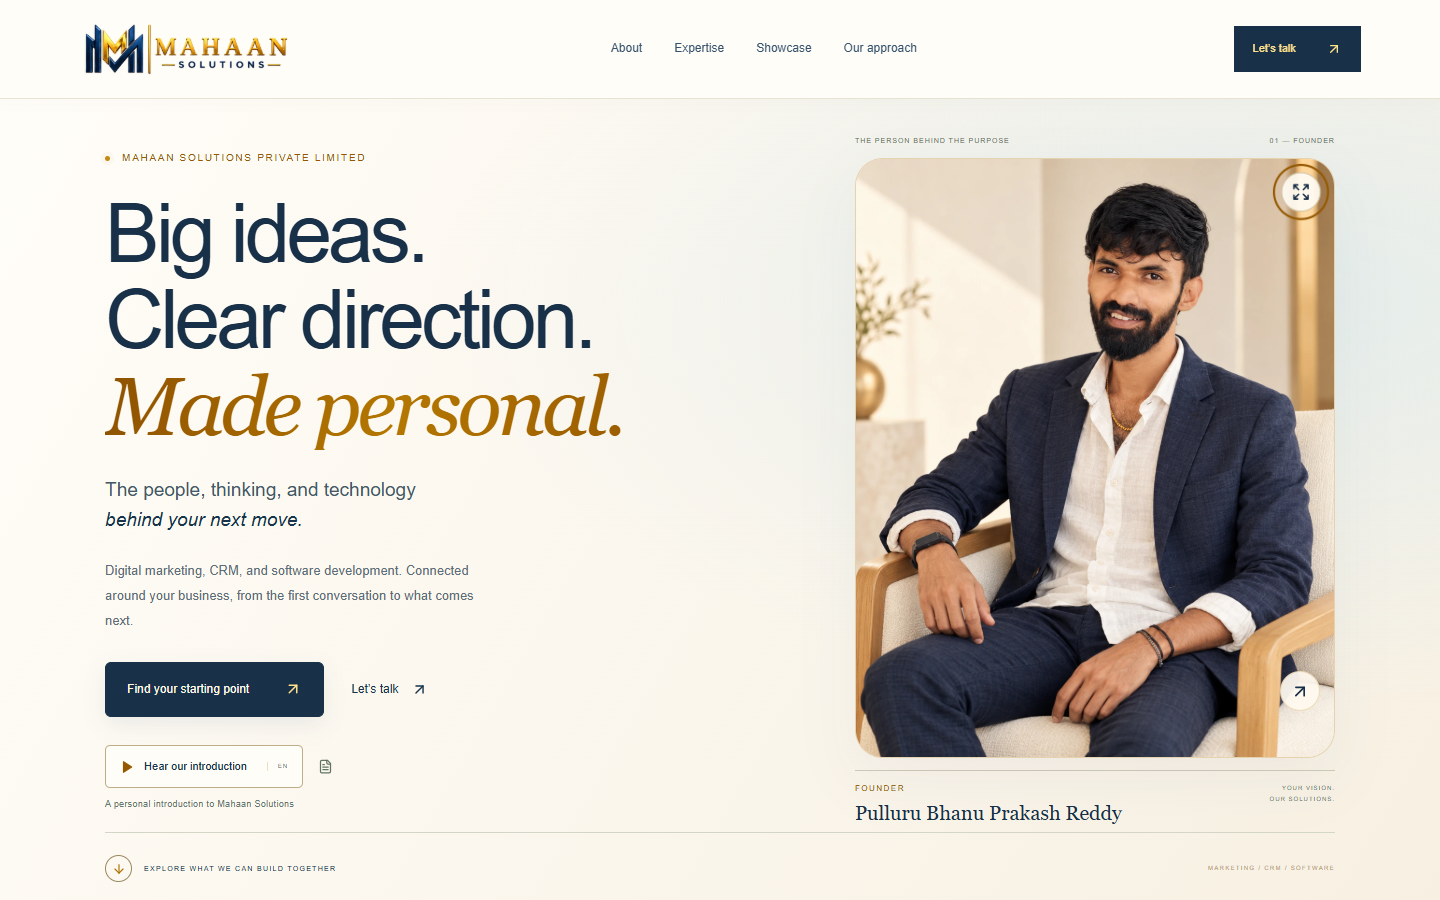
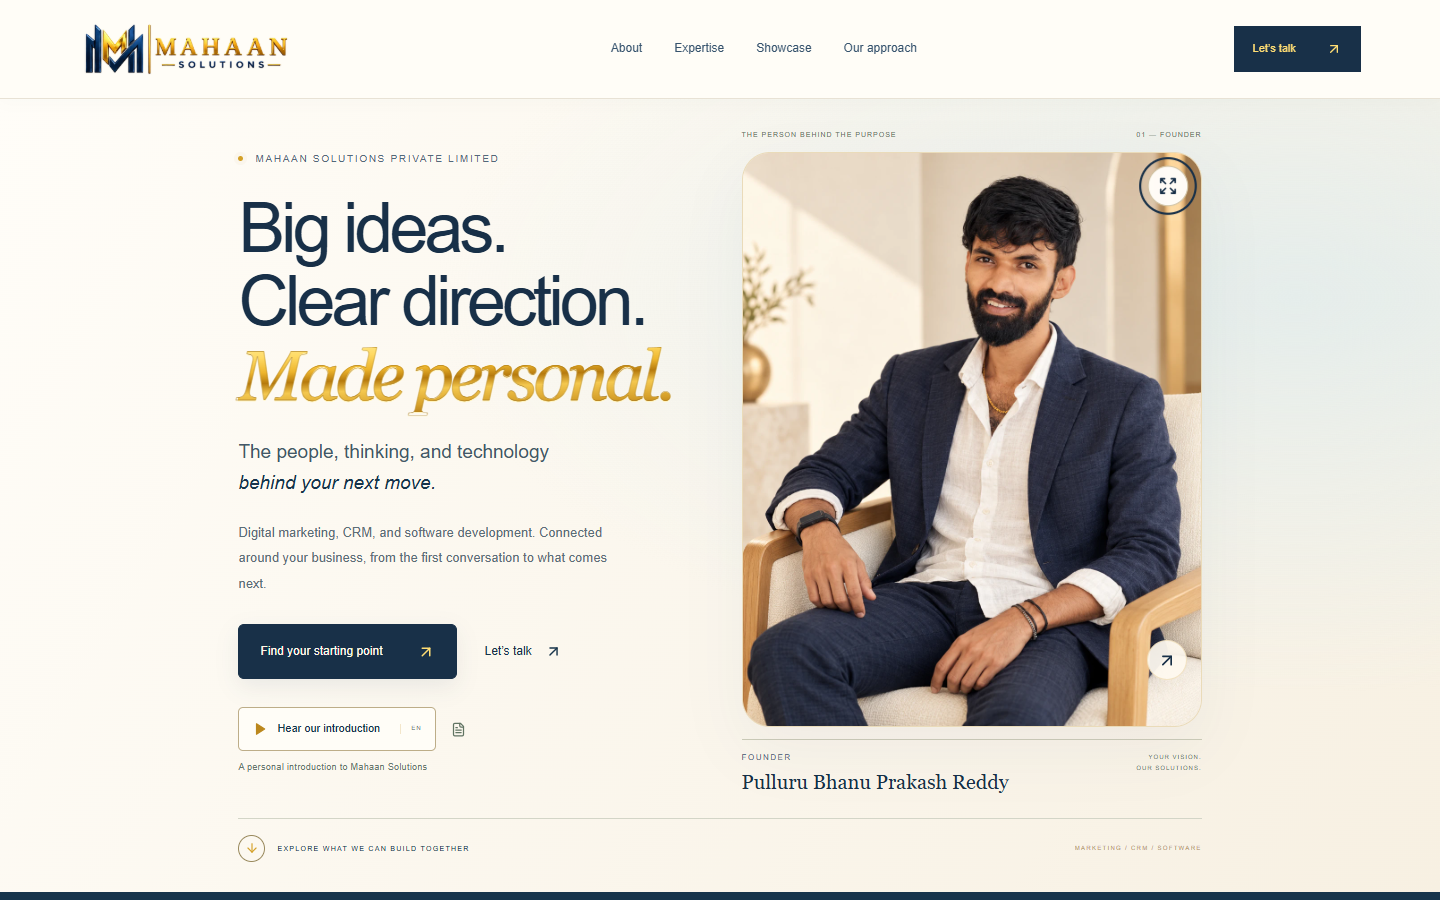
Update Site source

diff --git a/src/components/ServicesExperience.tsx b/src/components/ServicesExperience.tsx
@@ -8,6 +8,6 @@ import {NarrationButton,useFounderVoice} from './FounderVoice';
 import type {FounderScene} from '@/data/founder-scenes';
 export default function ServicesExperience(){const [category,setCategory]=useState('All expertise'),[active,setActive]=useState(services[0].slug),[paused,setPaused]=useState(false);const root=useRef<HTMLElement>(null);const filtered=services.filter(s=>category==='All expertise'||s.category===category),current=services.find(s=>s.slug===active)||services[0];
 const voice=useFounderVoice();useEffect(()=>{voice.selectScene(active as FounderScene)},[active,voice.selectScene]);
-useEffect(()=>{const observer=new IntersectionObserver(entries=>{const visible=entries.filter(e=>e.isIntersecting).sort((a,b)=>b.intersectionRatio-a.intersectionRatio);const id=(visible[0]?.target as HTMLElement|undefined)?.dataset.service;if(id)setActive(id)},{rootMargin:matchMedia('(max-width:760px)').matches?'-35% 0px -15% 0px':'-20% 0px -35% 0px',threshold:[0,.2,.5,.8]});root.current?.querySelectorAll('.service-card').forEach(el=>observer.observe(el));return()=>observer.disconnect()},[category]);
+useEffect(()=>{let frame=0;const update=()=>{frame=0;const cards=Array.from(root.current?.querySelectorAll<HTMLElement>('.service-card')||[]);const header=document.querySelector('.navigation')?.getBoundingClientRect().height||0;const focus=header+(innerHeight-header)*.5;const nearest=cards.map(card=>{const r=card.getBoundingClientRect();return{card,distance:r.top<=focus&&r.bottom>=focus?0:Math.min(Math.abs(r.top-focus),Math.abs(r.bottom-focus))}}).sort((a,b)=>a.distance-b.distance)[0];const id=nearest?.card.dataset.service;if(id)setActive(id)};const schedule=()=>{if(!frame)frame=requestAnimationFrame(update)};update();window.addEventListener('scroll',schedule,{passive:true});window.addEventListener('resize',schedule);return()=>{cancelAnimationFrame(frame);window.removeEventListener('scroll',schedule);window.removeEventListener('resize',schedule)}},[category]);
 function choose(slug:string){setActive(slug);document.getElementById(`chapter-${slug}`)?.scrollIntoView({behavior:matchMedia('(prefers-reduced-motion:reduce)').matches?'instant':'smooth',block:'center'})}
 return <section className="expertise services-experience section-pad" id="expertise" ref={root}><div className="section-label"><span>02 / OUR SERVICES</span><span>DESIGNED AROUND YOUR BUSINESS</span></div><div className="section-heading"><h2>Three disciplines.<br/><em>Connected by design.</em></h2><p>Get discovered. Connect your relationships.<br/>Build what comes next.</p></div><div className="service-filters" role="group" aria-label="Filter expertise">{['All expertise','Build','Grow'].map(c=><button key={c} aria-pressed={c===category} className={c===category?'active':''} onClick={()=>{setCategory(c);const first=services.find(s=>c==='All expertise'||s.category===c);if(first)setActive(first.slug)}}>{c}{c==='All expertise'&&<span>03</span>}</button>)}</div><div className="services-story-layout"><aside className="solution-console" data-motion={paused?'paused':'running'}><div className="solution-console-heading"><span><i/> YOUR PROJECT, EXPLORED</span><button aria-label={paused?'Resume preview motion':'Pause preview motion'} aria-pressed={paused} onClick={()=>setPaused(!paused)}>{paused?<Play size={13}/>:<Pause size={13}/>}</button></div><div className="solution-stage" onPointerMove={e=>{if(paused||matchMedia('(prefers-reduced-motion:reduce)').matches)return;const r=e.currentTarget.getBoundingClientRect();e.currentTarget.style.setProperty('--tilt-x',`${(e.clientX-r.left-r.width/2)/r.width*10}deg`);e.currentTarget.style.setProperty('--tilt-y',`${-(e.clientY-r.top-r.height/2)/r.height*8}deg`)}} onPointerLeave={e=>{e.currentTarget.style.setProperty('--tilt-x','0deg');e.currentTarget.style.setProperty('--tilt-y','0deg')}}><ServiceJourney key={active} service={active}/></div><div className="solution-console-caption"><span>{current.number} / EXPLORE THE POSSIBILITIES</span><h3>{current.title}</h3><p>{current.short}</p><NarrationButton scene={active as FounderScene} label="Hear the service overview"/></div><div className="solution-index" aria-label="Explore a service">{filtered.map(s=><button key={s.slug} className={active===s.slug?'is-active':''} aria-pressed={active===s.slug} onClick={()=>choose(s.slug)}><span>{s.number}</span><strong>{s.slug==='software-development'?'Software':s.slug==='digital-marketing'?'Marketing':'CRM'}</strong><ArrowUpRight size={13}/></button>)}</div></aside><div className="service-grid service-story-cards">{filtered.map(s=><article key={s.slug} id={`chapter-${s.slug}`} data-service={s.slug} className={`service-card business-service-card ${active===s.slug?'chapter-active':''}`}><div className="service-card-top"><span>0{s.number.replace('0','')} / {s.category.toUpperCase()}</span><ArrowUpRight size={23}/></div><Link className="service-main" href={`/services/${s.slug}`}><h3>{s.title}</h3><p>{s.description}</p></Link><div className="business-problem"><span>THE OPPORTUNITY</span><p>{s.problem}</p></div><ul className="service-deliverables">{s.deliverables.map(d=><li key={d}><Check size={13}/>{d}</li>)}</ul><div className="service-card-bottom"><Link href={`/services/${s.slug}`}>Explore service <ArrowRight size={15}/></Link><a className="chapter-cta" href={`/?service=${s.slug}#contact`} aria-label={`Request ${s.title}`}>Discuss your project <ArrowUpRight size={15}/></a></div></article>)}</div></div><p className="section-note">Visuals are illustrative explorations. Project scope, deliverables, and timelines are agreed around your requirements.</p></section>}

diff --git a/src/styles/compact-spacing.css b/src/styles/compact-spacing.css
@@ -1,0 +1,5 @@
+/* Compact content rhythm: fixed column gap instead of an empty stretched grid cell. */
+.editorial-hero{grid-template-columns:minmax(0,460px) minmax(0,min(460px,calc((100svh - var(--nav-height,99px) - 130px)*.8)));justify-content:center;align-items:center;gap:22px clamp(28px,3vw,46px);min-height:0;height:auto;padding:30px 6% 30px}.home-hero-copy{width:100%;max-width:460px}.founder-editorial{width:100%;max-width:none;min-width:0;justify-self:start;align-self:center}.editorial-hero h1{font-size:clamp(48px,5vw,70px)}.editorial-hero .home-hero-baseline{grid-column:1/-1;position:relative;inset:auto;height:auto;min-height:0;margin:0;padding:16px 0 0;align-self:end}.section-pad{padding-top:64px;padding-bottom:64px;--section-inset:64px}.section-label{margin-bottom:32px}.section-heading{margin-bottom:30px}.discipline-strip{height:64px}.company-intro-grid{gap:6%}.principles-heading{gap:5%}.faq-section{padding-top:64px;padding-bottom:64px}.company-finale{min-height:0;padding-top:65px}.company-finale-label{margin-top:60px}.company-finale-copy{padding-bottom:20px}.service-filters{margin-bottom:24px}.business-service-card{min-height:0}.business-service-card h3{min-height:0}.business-service-card .service-main>p{min-height:0}.business-problem>p{min-height:0}
+@media(min-width:761px) and (max-height:800px){.editorial-hero{padding-top:24px;padding-bottom:24px;gap:18px 36px}.editorial-hero h1{font-size:clamp(44px,4.6vw,62px)}.editorial-hero .home-hero-baseline{height:auto;padding-top:12px}}
+@media(max-width:1100px){.section-pad{padding-top:56px;padding-bottom:56px;--section-inset:56px}.faq-section{padding-top:56px;padding-bottom:56px}.section-label{margin-bottom:28px}}
+@media(max-width:760px){.editorial-hero{display:flex;flex-direction:column;padding:28px 6% 28px;gap:24px}.editorial-hero h1{font-size:clamp(43px,12.8vw,55px);margin:16px 0}.home-hero-statement{font-size:16px;line-height:1.45}.home-hero-description{margin:12px 0 18px}.hero-founder-control{margin-top:18px}.founder-editorial{width:100%;max-width:420px;align-self:center}.editorial-hero .home-hero-baseline{width:100%;margin:0;padding-top:14px}.section-pad{padding-top:42px;padding-bottom:42px;--section-inset:42px}.section-label{margin-bottom:24px}.section-heading{margin-bottom:24px}.discipline-strip{height:56px}.faq-section{padding-top:42px;padding-bottom:42px}.company-finale{padding-top:46px}.company-finale-label{margin-top:38px}.company-finale-copy{padding-bottom:0}.finale-orb{margin-bottom:50px}.business-service-card{padding:22px}.business-service-card h3{margin-top:20px}}

diff --git a/src/app/layout.tsx b/src/app/layout.tsx
@@ -6,6 +6,7 @@ import '@/styles/editorial-experience.css';
 import '@/styles/brand-palette.css';
 import '@/styles/navigation-polish.css';
 import '@/styles/portrait-layout.css';
+import '@/styles/compact-spacing.css';
 export const metadata: Metadata = {
   metadataBase: new URL(process.env.NEXT_PUBLIC_SITE_URL || 'http://localhost:3000'),
   title:{default:'Mahaan Solutions — Your Vision. Our Solutions.', template:'%s | Mahaan Solutions'},

diff --git a/docs/COMPACT-SPACING.md b/docs/COMPACT-SPACING.md
@@ -1,0 +1,9 @@
+# Compact spacing update
+
+The hero no longer stretches a narrow, height-limited portrait inside an oversized grid cell. It uses a bounded text column, a portrait-sized column and an explicit 28–46px gutter. Forced viewport minimum height and absolute baseline spacing are removed. The original full photograph remains contained at 4:5 proportions.
+
+Section padding is reduced to 64px desktop, 56px tablet and 42px mobile. Section labels and the discipline strip have tighter spacing. Matching --section-inset values preserve the navigation's existing 20px/16px heading alignment.
+
+The service explorer chooses the card crossing the viewport focus line on scroll, rather than relying on whichever IntersectionObserver entry happened to change last. This keeps the service journey aligned with cards after their spacing and heights change.
+
+Existing scripts/portrait-layout-qa.cjs, navigation-qa.cjs and editorial-qa.cjs cover portrait framing, navigation, call visibility, service interactions and mobile overflow.
